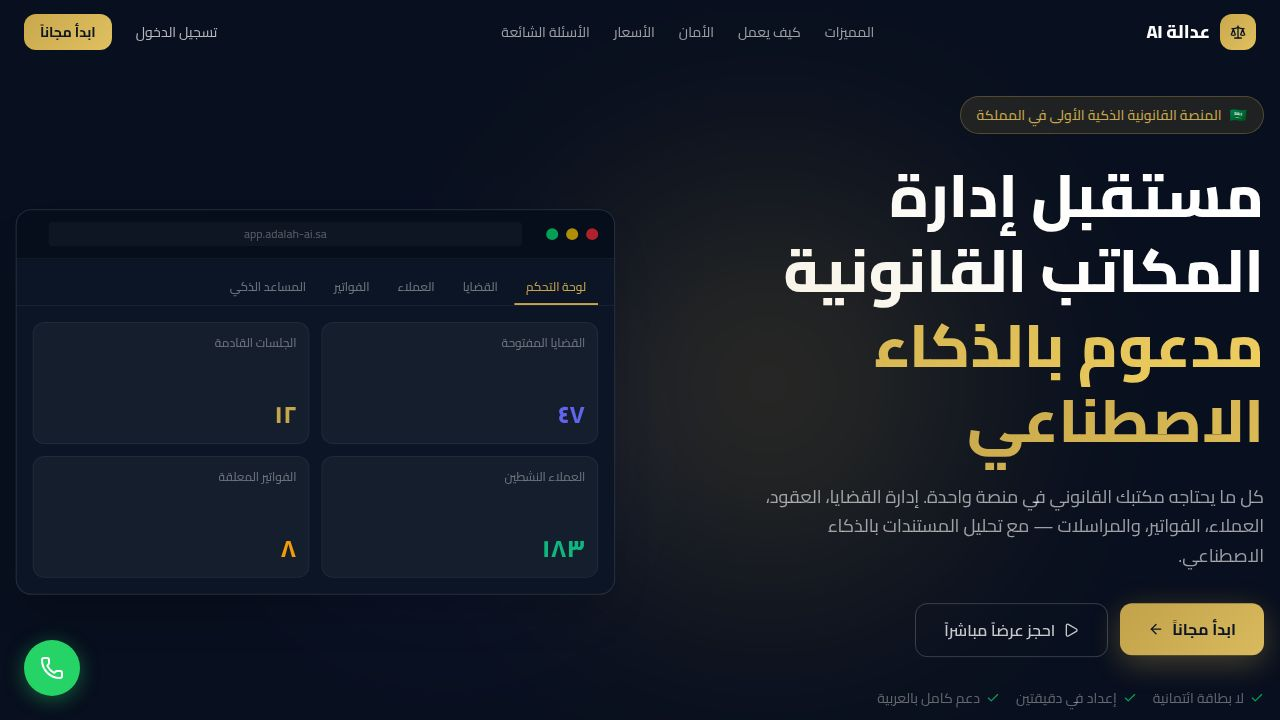
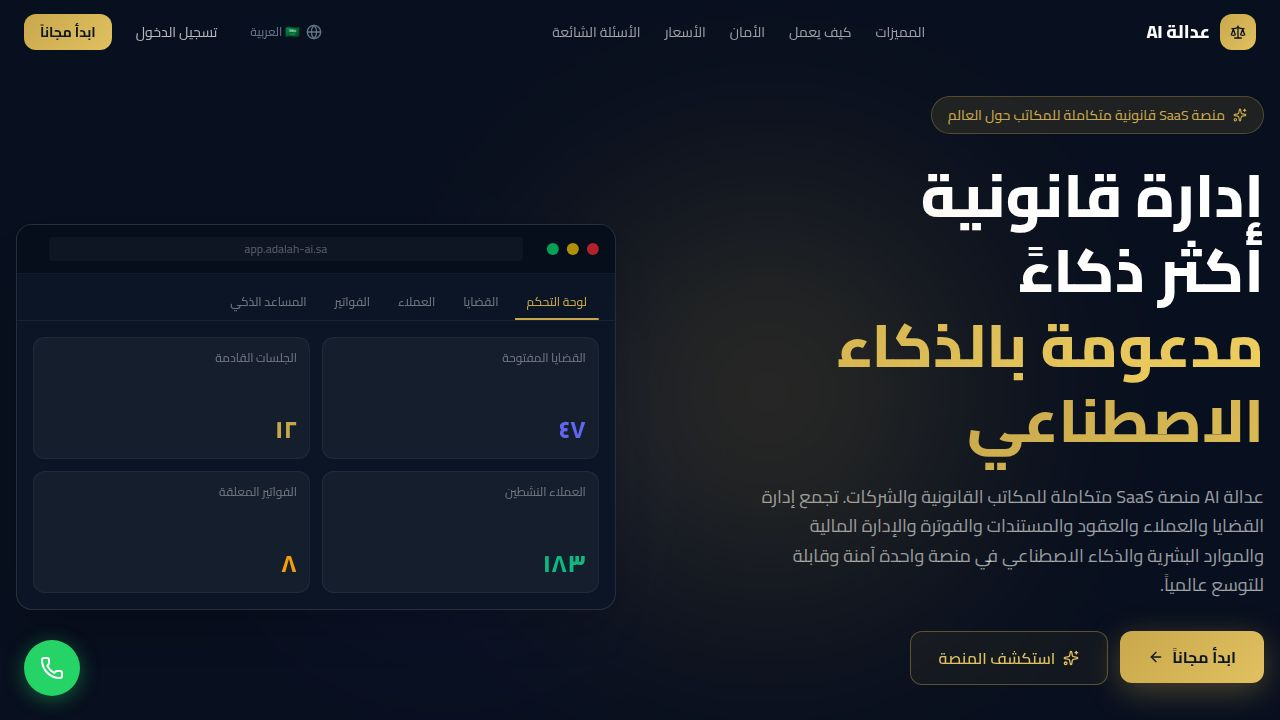
Update landing page to be globally relevant and remove region-specific content
Refactors i18n content and landing page components to replace Saudi-specific references with globalized text, including updates to badges, titles, subtitles, testimonials, and trust statistics.

Replit-Commit-Author: Agent
Replit-Commit-Session-Id: f9c54132-b917-403f-b667-a4047a6f5de7
Replit-Commit-Checkpoint-Type: full_checkpoint
Replit-Commit-Event-Id: ab0bef18-c7ce-4618-912c-812827880052
Replit-Commit-Screenshot-Url: https://storage.googleapis.com/screenshot-production-us-central1/49c36474-049d-4b8d-a47c-c6e8c95b9717/f9c54132-b917-403f-b667-a4047a6f5de7/gEHMGmR
Replit-Helium-Checkpoint-Created: true

diff --git a/artifacts/adala/src/pages/landing.tsx b/artifacts/adala/src/pages/landing.tsx
@@ -329,7 +329,7 @@ export default function Landing() {
               className="inline-flex items-center gap-2 px-4 py-2 rounded-full text-sm font-medium mb-6"
               style={{ background: "rgba(201,168,76,0.12)", border: "1px solid rgba(201,168,76,0.3)", color: "#C9A84C" }}
             >
-              <span>🇸🇦</span>
+              <Sparkles className="w-3.5 h-3.5" />
               {t("landing.hero.badge")}
             </motion.div>
 
@@ -381,7 +381,7 @@ export default function Landing() {
               transition={{ duration: 0.6, delay: 0.5 }}
               className="flex items-center gap-4 flex-wrap"
             >
-              {[t("landing.hero.noCard"), t("landing.hero.quickSetup"), t("landing.hero.arabicSupport")].map(label => (
+              {[t("landing.hero.noCard"), t("landing.hero.quickSetup"), t("landing.hero.arabicSupport"), t("landing.hero.interactive")].map(label => (
                 <span key={label} className="flex items-center gap-1.5 text-sm text-white/50">
                   <Check className="w-3.5 h-3.5 text-green-400" />
                   {label}
@@ -407,9 +407,9 @@ export default function Landing() {
           <p className="text-center text-white/30 text-sm mb-10">{t("landing.trust.tagline")}</p>
           <div className="grid grid-cols-2 md:grid-cols-4 gap-6 text-center">
             {[
-              { to: 500,   suffix: "+", labelKey: "landing.trust.offices",      icon: Building2 },
-              { to: 10000, suffix: "+", labelKey: "landing.trust.cases",        icon: Briefcase },
-              { to: 98,    suffix: "%", labelKey: "landing.trust.satisfaction", icon: Award },
+              { to: 1000,   suffix: "+", labelKey: "landing.trust.offices",      icon: Building2 },
+              { to: 100000, suffix: "+", labelKey: "landing.trust.cases",        icon: Briefcase },
+              { to: 99,    suffix: ".9%", labelKey: "landing.trust.satisfaction", icon: Award },
               { to: 40,    suffix: "%", labelKey: "landing.trust.timeSaving",   icon: Clock },
             ].map(s => (
               <div key={s.labelKey} className="space-y-1">